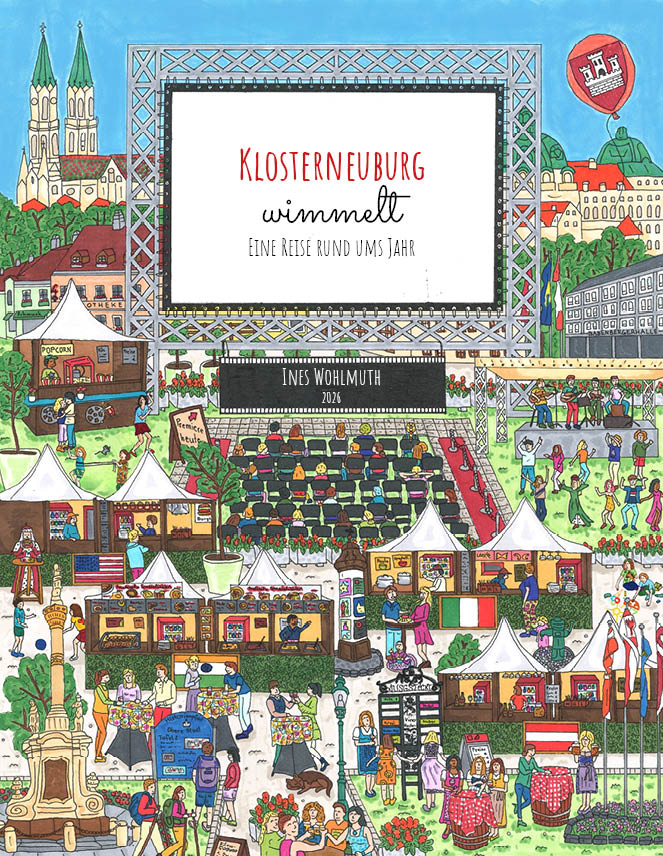
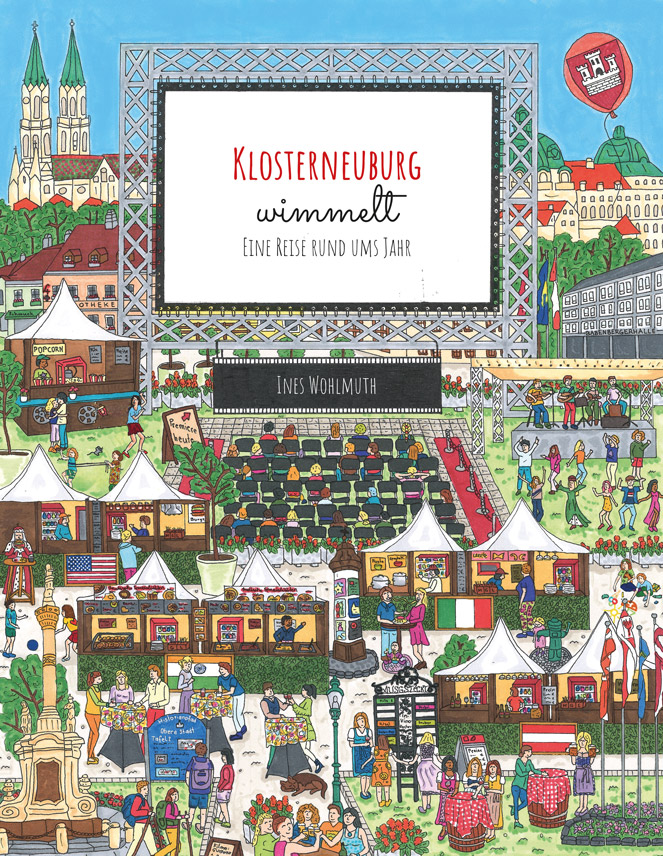
main

diff --git a/src/lib/components/Kontakt.svelte b/src/lib/components/Kontakt.svelte
@@ -77,7 +77,7 @@
 		<div class="flex flex-col gap-6">
 			<div>
 				<h3 class="font-display text-2xl font-bold text-wim-brown">Ines Wohlmuth</h3>
-				<p class="text-base-content/60 text-sm mt-1">Autorin des Wimmelbuch Klosterneuburg</p>
+				<p class="text-base-content/60 text-sm mt-1">Autorin des Wimmelbuches Klosterneuburg</p>
 			</div>
 
 			<div class="space-y-4">
